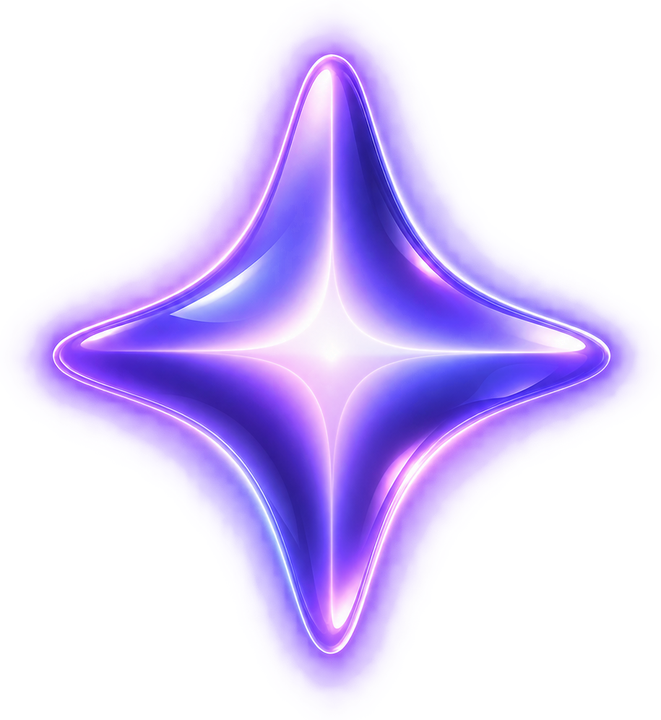
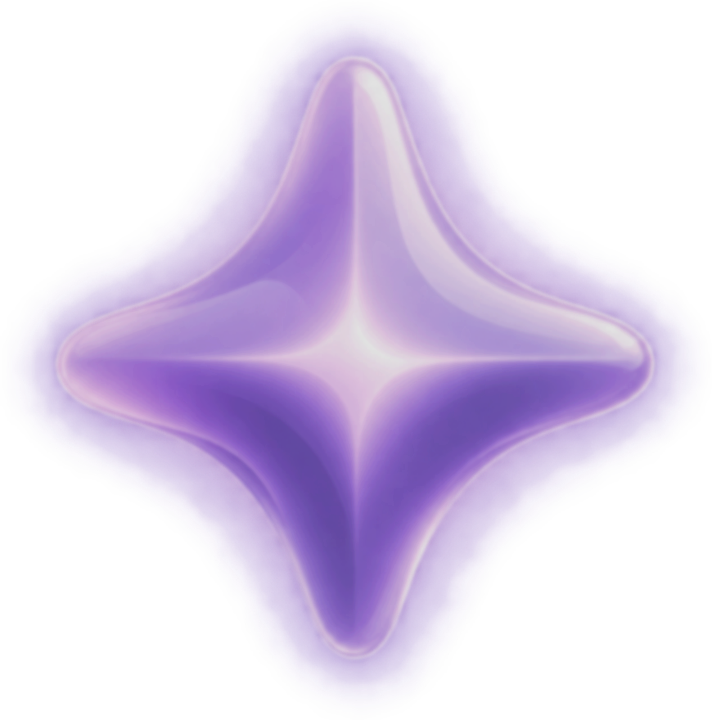
Ana sayfa: yeni yumuşatılmış illüstrasyonlar, Gecikmiş başlığı sadeleşti, Kredi kartları bölümü kaldırıldı

diff --git a/components/finance/HomeAlertCarousel.tsx b/components/finance/HomeAlertCarousel.tsx
@@ -29,11 +29,12 @@ interface AlertCardProps {
   body: string;
   cta: string;
   art: ReactNode;
+  textMaxWidth?: `${number}%`;
   onPress: () => void;
 }
 
 // Tuval dışı (kullanıcı görseli): degrade zeminli, sağda illüstrasyonlu uyarı kartı.
-function AlertCard({ id, width, tone, eyebrow, headline, headlineIsAmount, body, cta, art, onPress }: AlertCardProps) {
+function AlertCard({ id, width, tone, eyebrow, headline, headlineIsAmount, body, cta, art, textMaxWidth = '64%', onPress }: AlertCardProps) {
   const theme = useTheme();
 
   return (
@@ -70,10 +71,10 @@ function AlertCard({ id, width, tone, eyebrow, headline, headlineIsAmount, body,
         <Rect x="0" y="0" width="100%" height="100%" fill={`url(#${id}-glow)`} />
         <Rect x="0" y="0" width="100%" height="100%" fill={`url(#${id}-sheen)`} />
       </Svg>
-      <View pointerEvents="none" style={{ position: 'absolute', right: 6, bottom: 6 }}>
+      <View pointerEvents="none" style={{ position: 'absolute', right: -14, bottom: -26 }}>
         {art}
       </View>
-      <View style={{ padding: 20, gap: 4, flex: 1, maxWidth: '60%' }}>
+      <View style={{ padding: 20, gap: 4, flex: 1, maxWidth: textMaxWidth }}>
         <Text color="textSecondary" style={{ fontSize: 13, fontWeight: '500' }}>
           {eyebrow}
         </Text>
@@ -153,12 +154,13 @@ export function HomeAlertCarousel({ overdueMinor, overdueCount, hidden }: HomeAl
         id="g-overdue"
         width={cardWidth}
         tone={theme.colors.danger}
-        eyebrow={`Gecikmiş · ${overdueCount} kayıt`}
+        eyebrow="Gecikmiş"
         headline={hidden ? MASK : formatMinorAmount(overdueMinor)}
         headlineIsAmount
-        body={`${overdueCount} kaydın ödeme tarihi geçti.`}
+        body={`Ödeme tarihi geçen ${overdueCount} kaydın var.`}
         cta="Hemen incele"
-        art={<OverdueArt width={128} />}
+        art={<OverdueArt width={170} />}
+        textMaxWidth="76%"
         onPress={() => router.push({ pathname: '/obligations', params: { status: 'overdue' } })}
       />
     );
@@ -200,7 +202,7 @@ export function HomeAlertCarousel({ overdueMinor, overdueCount, hidden }: HomeAl
         headline={savingMinor > 0 ? `Ayda ${formatMinorAmount(savingMinor).replace(/,00$/, '')} tasarruf` : (top?.title ?? 'Öneriler hazır')}
         body={savingMinor > 0 && top ? top.title : 'Harcamalarına göre hazırlandı.'}
         cta="Önerileri gör"
-        art={<SparkleArt width={116} />}
+        art={<SparkleArt width={130} />}
         onPress={() => router.push('/insights')}
       />
     );

diff --git a/app/(tabs)/index.tsx b/app/(tabs)/index.tsx
@@ -16,7 +16,6 @@ import { QuickActions } from '@/components/finance/QuickActions';
 import { UpcomingDueList } from '@/components/finance/UpcomingDueList';
 import { PendingReviewQueue } from '@/components/finance/PendingReviewQueue';
 import { DraftDocumentsQueue } from '@/components/finance/DraftDocumentsQueue';
-import { CreditCardDueWidget } from '@/components/finance/CreditCardDueWidget';
 import { RecentTransactionsList } from '@/components/finance/RecentTransactionsList';
 import { listMyWorkspaces } from '@/features/workspaces/api';
 import { listAccounts } from '@/features/accounts/api';
@@ -241,16 +240,6 @@ export default function HomeScreen() {
     () => activeObligations.filter((o) => o.direction === 'receivable'),
     [activeObligations]
   );
-  // Her kredi kartı ekstresi için en yakın vadeli kayıt (taksit satırları tekilleştirilir).
-  const creditCardObligations = useMemo(() => {
-    const nearest = new Map<string, ObligationDueItem>();
-    for (const o of activeObligations) {
-      if (o.document_type !== 'kredi_karti_ekstresi' || o.remaining_amount_minor <= 0) continue;
-      const current = nearest.get(o.id);
-      if (!current || (o.due_date ?? '9999') < (current.due_date ?? '9999')) nearest.set(o.id, o);
-    }
-    return [...nearest.values()].sort((a, b) => (a.due_date ?? '9999').localeCompare(b.due_date ?? '9999'));
-  }, [activeObligations]);
 
 
   const payableTotalMinor = useMemo(
@@ -390,8 +379,6 @@ export default function HomeScreen() {
           <PendingReviewQueue documents={pendingDocumentsQuery.data ?? []} />
 
           {activeWorkspaceId ? <DraftDocumentsQueue workspaceId={activeWorkspaceId} /> : null}
-
-          <CreditCardDueWidget obligations={creditCardObligations} />
 
           {/* Hesaplar/Kişiler/Kategoriler artık "Daha Fazla" sekmesinden erişiliyor. */}
           <RecentTransactionsList transactions={recentTransactionsQuery.data ?? []} />

diff --git a/components/finance/HomeArt.tsx b/components/finance/HomeArt.tsx
@@ -7,17 +7,17 @@ function Art({ source, width, ratio }: { source: ImageSourcePropType; width: num
 }
 
 export function WalletArt({ width = 168 }: { width?: number }) {
-  return <Art source={require('@/assets/home/wallet.png')} width={width} ratio={629 / 720} />;
+  return <Art source={require('@/assets/home/wallet.png')} width={width} ratio={644 / 720} />;
 }
 
 export function OverdueArt({ width = 150 }: { width?: number }) {
-  return <Art source={require('@/assets/home/overdue.png')} width={width} ratio={720 / 706} />;
+  return <Art source={require('@/assets/home/overdue.png')} width={width} ratio={610 / 720} />;
 }
 
 export function CashArt({ width = 176 }: { width?: number }) {
-  return <Art source={require('@/assets/home/cash.png')} width={width} ratio={544 / 720} />;
+  return <Art source={require('@/assets/home/cash.png')} width={width} ratio={682 / 720} />;
 }
 
 export function SparkleArt({ width = 132 }: { width?: number }) {
-  return <Art source={require('@/assets/home/insight.png')} width={width} ratio={720 / 661} />;
+  return <Art source={require('@/assets/home/insight.png')} width={width} ratio={720 / 712} />;
 }

diff --git a/components/finance/HomeHero.tsx b/components/finance/HomeHero.tsx
@@ -51,8 +51,8 @@ export function HomeHero({
           </Defs>
           <Rect x="0" y="0" width="100%" height="100%" fill="url(#hero-sheen)" />
         </Svg>
-        <View pointerEvents="none" style={{ position: 'absolute', right: -36, top: 32 }}>
-          <WalletArt width={150} />
+        <View pointerEvents="none" style={{ position: 'absolute', right: -52, top: 46 }}>
+          <WalletArt width={168} />
         </View>
         <View style={{ flexDirection: 'row', justifyContent: 'space-between', alignItems: 'center' }}>
           <Text color="textSecondary" style={{ fontSize: 13, fontWeight: '500' }}>
